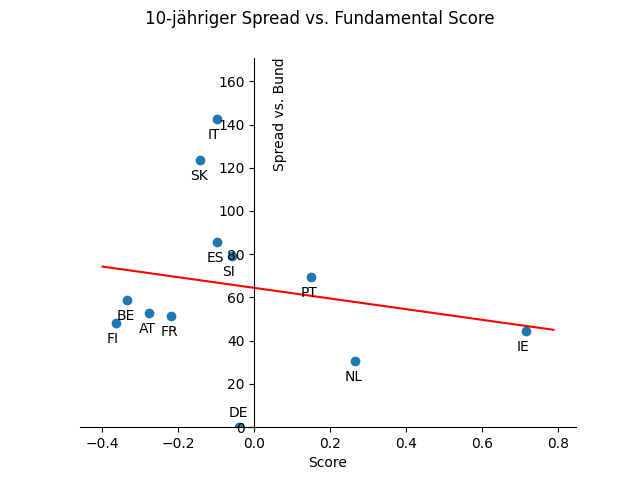
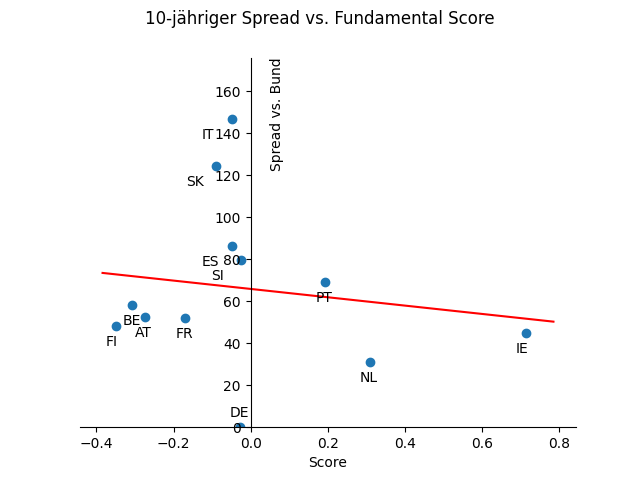
missing value approx in sentiment done

diff --git a/charting/charts/development/stars_model.py b/charting/charts/development/stars_model.py
@@ -84,12 +84,21 @@ def main():
         i += 1
 
     normalized_score = {}
+    adj_value = {}
     for key, value in results.items():
         if 'sent' in key:
+            normalized_score[key] = value[countries].ffill(axis=0).dropna(axis=1, how='all')
+            adj_value[key] = value[countries].ffill(axis=0).dropna(axis=1, how='all')
+            for c in countries:
+                last_key = value[c].dropna().index[-1]
+                if list(value[countries].index).index(last_key) != value[c].shape[0]-1:
+                    est = value['EU27_2020'].loc[last_key:].apply(lambda x: x - value['EU27_2020'].loc[last_key])
+                    normalized_score[key].loc[last_key:, c] = normalized_score[key].loc[last_key:, c] + est
+                    adj_value[key].loc[last_key:, c] = adj_value[key].loc[last_key:, c] + est
 
-            last_key = value[countries].dropna().index[-1]
-            est = value[countries].loc[last_key:].apply(lambda x: x-value[countries].loc[last_key], axis=1).mean(axis=1)
-        normalized_score[key] = value[countries].ffill(axis=0).dropna(axis=1, how='all').apply(lambda x: 2*(x-x.min())/(x.max()-x.min()) - 1, axis=1)
+            normalized_score[key] = normalized_score[key].apply(lambda x: 2 * (x - x.min()) / (x.max() - x.min()) - 1, axis=1)
+        else:
+            normalized_score[key] = value[countries].ffill(axis=0).dropna(axis=1, how='all').apply(lambda x: 2*(x-x.min())/(x.max()-x.min()) - 1, axis=1)
 
     weights = {'initial_conditions': (0.4, {'government_debt': (.4, -1), 'primary_balance': (.3, 1), 'overall_balance': (.2, 1), 'unemployment_rate': (.05, -1), 'international_reserves': (.05, 1)}),
                'momentum': (.3, {'eco_sentiment': (.5, 1), 'industrial_sentiment': (.5, 1)}),
@@ -157,6 +166,9 @@ def main():
     for x, y, c in zip(xs, ys, total_score.columns):
         if c == 'DE':
             plt.text(x, y, c, transform=matplotlib.transforms.offset_copy(ax.transData, fig=fig, x=-.1, y=.1, units='inches'))
+        elif -0.1 < x < 0.1:
+            plt.text(x, y, c,
+                     transform=matplotlib.transforms.offset_copy(ax.transData, fig=fig, x=-.3, y=-.2, units='inches'))
         else:
             plt.text(x, y, c, transform=trans_offset)
     m, b = np.polyfit(xs, ys, 1)
